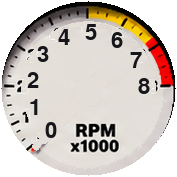
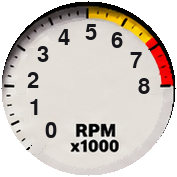
Serpe V10: apaga os restos dos números antigos e a ponta do ponteiro pintado nos mostradores
Claude-Session: https://claude.ai/code/session_01MLD9VR7gkmY4w6a9beZcp6

diff --git a/tools/ref/viper_gauges.py b/tools/ref/viper_gauges.py
@@ -11,6 +11,7 @@ import math
 import os
 import sys
 
+import cv2
 import numpy as np
 from PIL import Image, ImageDraw, ImageFont
 
@@ -40,7 +41,6 @@ def main():
         redn = (rgb[..., 0] > 140) & (rgb[..., 0] > rgb[..., 1] * 1.6) & (dd < r)
         redn &= ~((dd > r * 0.82) & (rgb[..., 1] > 60))  # a faixa amarela/vermelha da borda fica
         hub = (dd < r * 0.24) & (rgb.max(axis=2) < 150)
-        import cv2
         k = np.ones((7, 7), np.uint8)
         near = cv2.dilate((redn | hub).astype(np.uint8), k) > 0
         # contorno escuro do ponteiro e do miolo (tudo o que não é creme em volta deles)
@@ -54,9 +54,33 @@ def main():
         kx0, ky0, kx1, ky1 = d['keep']
         band = (dd > r * 0.36) & (dd < r * 0.8) & ~((xx >= kx0) & (xx <= kx1) & (yy >= ky0) & (yy <= ky1))
         clear |= band & (rgb.min(axis=2) < 205)
+        # pedaços dos números antigos que encostam nas marcações (entre 0,8r e 0,93r): cada mancha
+        # escura que não chega na borda das marcações (> 0,9r) sai; as marcações ficam
+        dark = ((rgb.min(axis=2) < 200) & (dd > r * 0.36) & (dd < r * 0.99)).astype(np.uint8)
+        n, lab, st, _ = cv2.connectedComponentsWithStats(dark, 8)
+        outer = np.zeros(n, bool)
+        outer[np.unique(lab[(dd > r * 0.9) & (dark > 0)])] = True
+        keepbox = (xx >= kx0) & (xx <= kx1) & (yy >= ky0) & (yy <= ky1)
+        clear |= (lab > 0) & ~outer[lab] & ~keepbox & (dd < r * 0.93)
+        # ponta vermelha antiga fora da faixa colorida (também a sombreada) e pontinhos soltos
+        redish = (rgb[..., 0] > rgb[..., 1] * 1.3) & (rgb[..., 0] > 110) & ~((ang > 255) & (ang < 365)) & (dd < r + 3)
+        nearred = cv2.dilate(redish.astype(np.uint8), np.ones((11, 11), np.uint8)).astype(bool)
+        shadow = nearred & (rgb.min(axis=2) > 60) & (rgb.min(axis=2) < 190) & (dd > r * 0.85)  # sombra cinza da ponta
+        tipclear = (cv2.dilate(redish.astype(np.uint8), np.ones((3, 3), np.uint8)).astype(bool) | shadow) & (dd < r + 3)
+        small = (st[:, cv2.CC_STAT_AREA] < 16)
+        clear |= (lab > 0) & small[lab] & (dd < r * 0.86) & ~keepbox
+        # o resto do borrão claro do ponteiro antigo (diferente do creme em volta)
+        clear = cv2.dilate(clear.astype(np.uint8), np.ones((3, 3), np.uint8)).astype(bool) & (dd < r * 0.93) & ~(keepbox & ~clear)
+        clear |= tipclear
         # o antigo terceiro "180" fica mais embaixo, entre o 180 e o "MPH"
         # (apaga só o que for escuro e fique fora das marcações)
-        a[clear & (dd < r)] = face.astype(np.uint8)
+        # preenchimento com o creme em volta (convolução normalizada): o sombreado do fundo continua
+        w = ((~clear) & (rgb.min(axis=2) > 175) & (dd < r)).astype(np.float32)
+        num = cv2.GaussianBlur(art.astype(np.float32) * w[..., None], (0, 0), 6)
+        den = cv2.GaussianBlur(w, (0, 0), 6)[..., None]
+        val = np.clip(num / np.maximum(den, 1e-3), 0, 255).astype(np.uint8)
+        m = clear & (dd < r + 3)
+        a[m] = val[m]
         # sombra suave na borda de baixo do fundo (como a arte)
         im = Image.fromarray(a)
         dr = ImageDraw.Draw(im)
@@ -74,7 +98,18 @@ def main():
                 lay = lay.resize((int(lay.width * 0.82), lay.height), Image.LANCZOS)
             px, py = int(round(lx - lay.width / 2)), int(round(ly - lay.height / 2))
             im.paste((22, 22, 26), (px, py), lay)
+            txt = Image.new('L', im.size, 0); txt.paste(255, (px, py), lay)
+            textmask = np.maximum(textmask, np.array(txt)) if i else np.array(txt)
         a = np.array(im)
+        # pontinhos escuros que sobraram dos números antigos (soltos, longe dos números novos)
+        tm = cv2.dilate((textmask > 0).astype(np.uint8), np.ones((5, 5), np.uint8)).astype(bool)
+        dk = (a.astype(int).min(axis=2) < 190) & (dd > r * 0.36) & (dd < r * 0.99) & ~tm & ~keepbox
+        n2, lab2, st2, _ = cv2.connectedComponentsWithStats(dk.astype(np.uint8), 8)
+        sm = st2[:, cv2.CC_STAT_AREA] < 25
+        sm[np.unique(lab2[(dd > r * 0.86) & dk])] = False  # as marcações (chegam na borda) ficam
+        sm[0] = False
+        dots = cv2.dilate(sm[lab2].astype(np.uint8), np.ones((3, 3), np.uint8)).astype(bool)
+        a[dots] = val[dots]
         # recorte: só o fundo redondo (o aro fica no painel)
         R = r + 4
         x0, y0 = cx - R, cy - R
